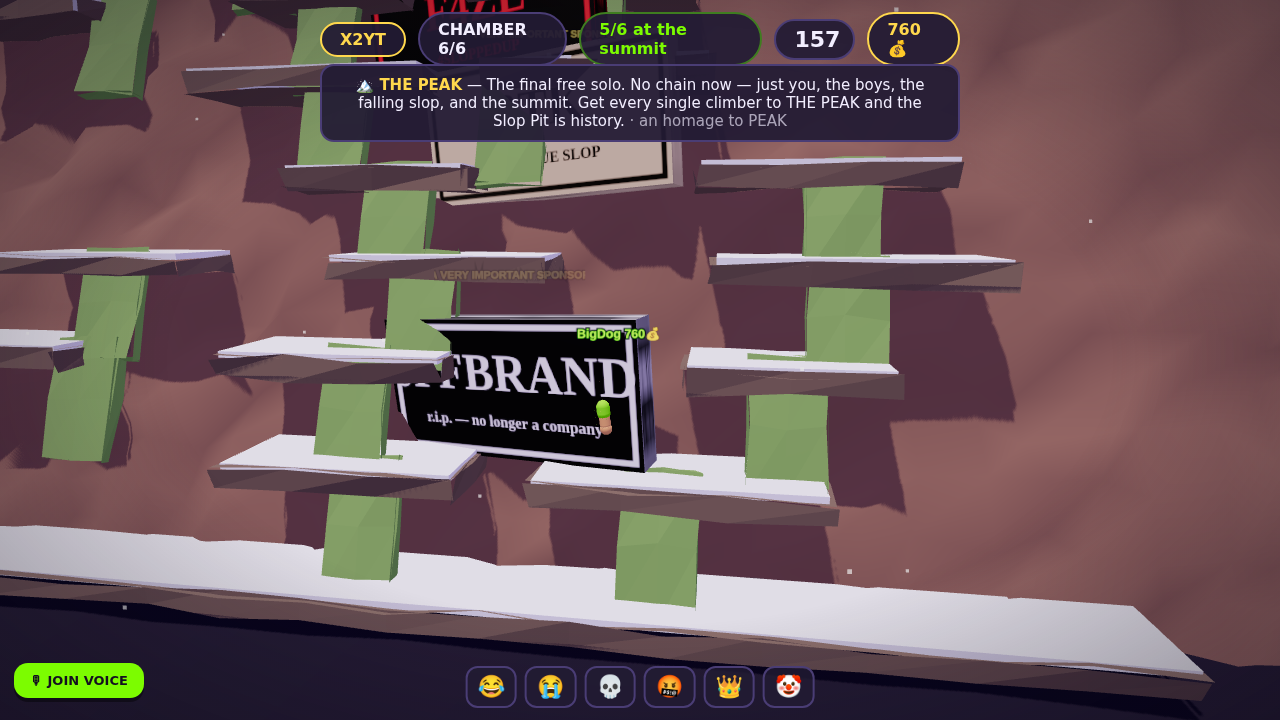
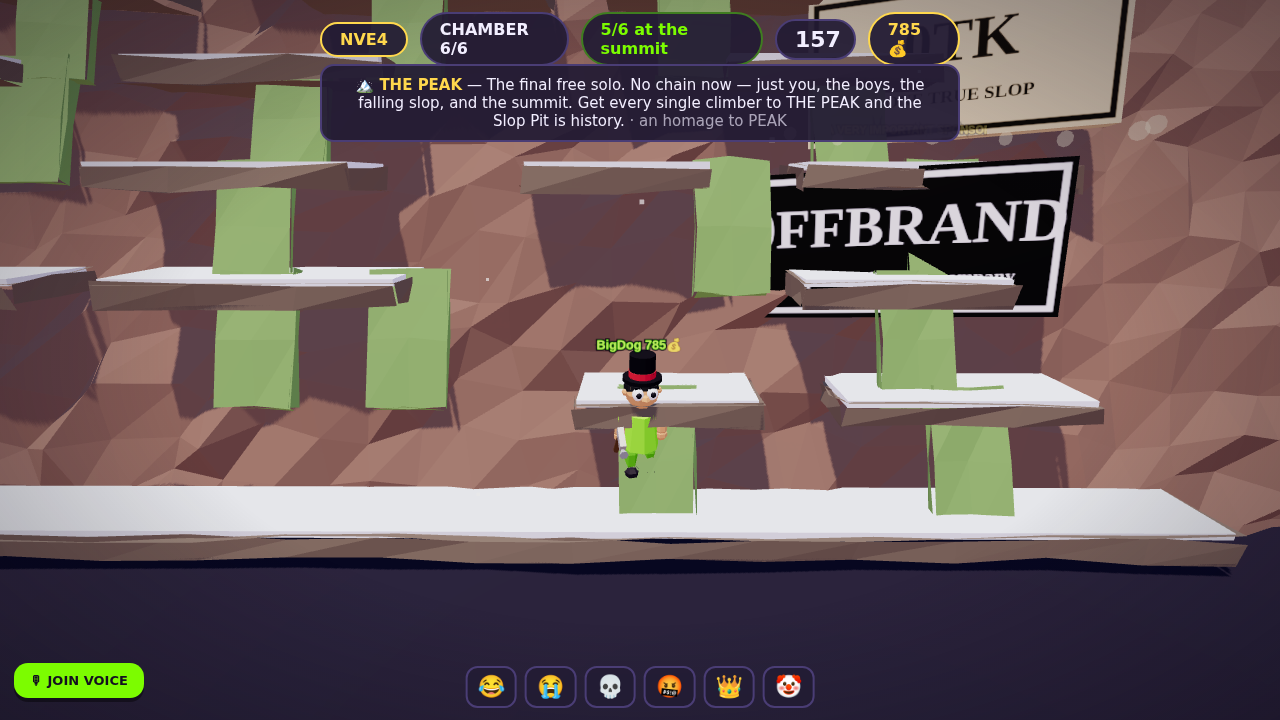
Full graphics overhaul: faceted toy-diorama style
The whole game now shares one look pulled from the concept-art refs:
clean flat-shaded facets on everything (global facetify pass over
every arena material, eyes excepted), low-segment gem-cut character
geometry, strong warm sun + sky-blue fill so facets read, saturated
palette. RV chamber became Chaos Canyon (blue sky, stacked terracotta
mesas, saguaros, parody billboard); hub gate is a big studded faceted
arch; richer felt; faceted palms and Peak cliff.

Claude-Session: https://claude.ai/code/session_014a4Rg1hvhLxLbg1EbcNxR6

diff --git a/client/js/render.js b/client/js/render.js
@@ -56,19 +56,20 @@ function liftFor(id) {
 // ---- shared geometry / materials --------------------------------------------
 
 const GEO = {
-  // chunky little HUMANS (R.V. There Yet clay-person energy): big head with a
-  // real face, shirt torso, sleeves ending in hands, pants ending in shoes
-  torso: new THREE.CapsuleGeometry(17, 22, 8, 18),
-  sleeve: new THREE.CapsuleGeometry(6.8, 6, 6, 12),
-  forearm: new THREE.CapsuleGeometry(5.6, 9, 6, 12),
-  hand: new THREE.SphereGeometry(6.2, 12, 10),
-  thigh: new THREE.CapsuleGeometry(7.5, 12, 6, 12),
-  shoe: new THREE.SphereGeometry(8.5, 12, 10).scale(1.35, 0.75, 1.05),
-  head: new THREE.SphereGeometry(16.5, 26, 20),
-  nose: new THREE.SphereGeometry(4.6, 12, 10).scale(1.25, 1, 1),
-  ear: new THREE.SphereGeometry(3.6, 10, 8),
+  // chunky little HUMANS in faceted toy-diorama low poly: big gem-cut head
+  // with a real face, tapered barrel torso, sleeves ending in mitts, boots.
+  // Segment counts are LOW on purpose — the facets are the art style.
+  torso: new THREE.CylinderGeometry(13, 17.5, 36, 8),
+  sleeve: new THREE.CapsuleGeometry(6.8, 6, 2, 7),
+  forearm: new THREE.CapsuleGeometry(5.6, 9, 2, 7),
+  hand: new THREE.SphereGeometry(6.2, 7, 5),
+  thigh: new THREE.CapsuleGeometry(7.5, 12, 2, 7),
+  shoe: new THREE.SphereGeometry(8.5, 7, 5).scale(1.35, 0.75, 1.05),
+  head: new THREE.SphereGeometry(16.5, 9, 6),
+  nose: new THREE.SphereGeometry(4.6, 6, 4).scale(1.25, 1, 1),
+  ear: new THREE.SphereGeometry(3.6, 6, 4),
   brow: new THREE.BoxGeometry(2.4, 2.2, 6.5),
-  hair: new THREE.SphereGeometry(17.3, 22, 12, 0, Math.PI * 2, 0, Math.PI * 0.52),
+  hair: new THREE.SphereGeometry(17.3, 9, 5, 0, Math.PI * 2, 0, Math.PI * 0.52),
   // the 2004 de-make set
   torsoB: new THREE.BoxGeometry(26, 46, 36),
   legB: new THREE.BoxGeometry(12, 27, 14),
@@ -85,8 +86,8 @@ const GEO = {
   card: new THREE.PlaneGeometry(66, 92),
 };
 const MAT = {
-  eyeWhite: new THREE.MeshStandardMaterial({ color: 0xffffff, roughness: 0.3 }),
-  pupil: new THREE.MeshStandardMaterial({ color: 0x1a1426, roughness: 0.4 }),
+  eyeWhite: new THREE.MeshStandardMaterial({ color: 0xffffff, roughness: 0.3, userData: { smooth: true } }),
+  pupil: new THREE.MeshStandardMaterial({ color: 0x1a1426, roughness: 0.4, userData: { smooth: true } }),
   link: new THREE.MeshStandardMaterial({ color: 0x4a4260, roughness: 0.35, metalness: 0.7 }),
   gremlin: new THREE.MeshStandardMaterial({ color: 0x2c2140, roughness: 0.6, flatShading: true }),
   gremlinEye: new THREE.MeshBasicMaterial({ color: 0xff3030 }),
@@ -105,7 +106,7 @@ function particleMat(color) {
 // crew of little dudes instead of a bag of gumballs.
 const SKINS = ['#f2c9a0', '#e8ab72', '#c98e55', '#9a6b42', '#f6d7b8', '#7a5236'];
 const HAIRS = ['#3a2a1e', '#191922', '#6b4a2e', '#8a8a92', '#b8862e', '#2e1c14'];
-const SHOE_MAT = new THREE.MeshStandardMaterial({ color: 0x2a2233, roughness: 0.6 });
+const SHOE_MAT = new THREE.MeshStandardMaterial({ color: 0x2a2233, roughness: 0.6, flatShading: true });
 
 const charMatCache = new Map();
 function charMats(color, skinIndex = 0, blocky = false) {
@@ -120,11 +121,12 @@ function charMats(color, skinIndex = 0, blocky = false) {
         limb: new THREE.MeshStandardMaterial({ color: base.clone().lerp(new THREE.Color('#000000'), 0.25), roughness: 0.55, ...opts }),
       });
     } else {
+      // flat shading everywhere — clean toy-diorama facets
       charMatCache.set(key, {
-        shirt: new THREE.MeshStandardMaterial({ color: base, roughness: 0.6 }),
-        pants: new THREE.MeshStandardMaterial({ color: base.clone().lerp(new THREE.Color('#14101f'), 0.45), roughness: 0.65 }),
-        skin: new THREE.MeshStandardMaterial({ color: SKINS[skinIndex % SKINS.length], roughness: 0.55 }),
-        hair: new THREE.MeshStandardMaterial({ color: HAIRS[skinIndex % HAIRS.length], roughness: 0.75 }),
+        shirt: new THREE.MeshStandardMaterial({ color: base, roughness: 0.6, flatShading: true }),
+        pants: new THREE.MeshStandardMaterial({ color: base.clone().lerp(new THREE.Color('#14101f'), 0.45), roughness: 0.65, flatShading: true }),
+        skin: new THREE.MeshStandardMaterial({ color: SKINS[skinIndex % SKINS.length], roughness: 0.55, flatShading: true }),
+        hair: new THREE.MeshStandardMaterial({ color: HAIRS[skinIndex % HAIRS.length], roughness: 0.75, flatShading: true }),
       });
     }
   }
@@ -427,10 +429,11 @@ export function initRender(cv) {
     if (!yawLocked && document.pointerLockElement === canvas) camYaw += e.movementX * 0.0026;
   });
 
-  // bright + even (Gamble With Friends is basically lit like a toy commercial)
-  scene.add(new THREE.AmbientLight(0xb0a4d8, 1.6));
-  scene.add(new THREE.HemisphereLight(0xa898d8, 0x4a3a58, 1.1));
-  const sun = new THREE.DirectionalLight(0xfff2e0, 1.7);
+  // sunny illustrated look: strong warm sun + sky-blue fill. The facets are
+  // the art style, and facets only read when light has a direction.
+  scene.add(new THREE.AmbientLight(0xcabdf0, 1.0));
+  scene.add(new THREE.HemisphereLight(0x9ec8ff, 0xd8a878, 1.25));
+  const sun = new THREE.DirectionalLight(0xfff0d8, 2.3);
   sun.position.set(500, 1500, 900);
   sun.castShadow = true;
   sun.shadow.mapSize.set(2048, 2048);
@@ -1032,9 +1035,83 @@ function buildDenRoom(group) {
   group.add(moodB);
 }
 
+// ---- Chaos Canyon set dressing: faceted desert diorama pieces ---------------
+
+// A stacked terracotta butte: tapered 8-sided slabs, lighter toward the top.
+const MESA_TONES = [0xb3502a, 0xc4652f, 0xd4784a, 0xe08a56];
+function mesa(group, x, z, s = 1) {
+  const butte = new THREE.Group();
+  let y = 0;
+  const tiers = 3 + Math.floor(Math.random() * 2);
+  for (let t = 0; t < tiers; t++) {
+    const rTop = (250 - t * 55) * (0.82 + Math.random() * 0.3);
+    const h = 150 - t * 22;
+    const slab = new THREE.Mesh(
+      new THREE.CylinderGeometry(rTop, rTop * 1.22, h, 8),
+      new THREE.MeshStandardMaterial({ color: MESA_TONES[Math.min(t, MESA_TONES.length - 1)], roughness: 1, flatShading: true }),
+    );
+    slab.rotation.y = Math.random() * Math.PI;
+    slab.position.y = y + h / 2;
+    slab.castShadow = true;
+    butte.add(slab);
+    y += h * 0.92;
+  }
+  butte.position.set(x, 0, z);
+  butte.scale.setScalar(s);
+  group.add(butte);
+}
+
+// A saguaro: faceted trunk + two elbowed arms.
+const CACTUS_MAT = new THREE.MeshStandardMaterial({ color: 0x4fae4a, roughness: 0.85, flatShading: true });
+function cactus(group, x, z, s = 1) {
+  const cac = new THREE.Group();
+  const trunk = new THREE.Mesh(new THREE.CylinderGeometry(13, 16, 130, 7), CACTUS_MAT);
+  trunk.position.y = 65;
+  trunk.castShadow = true;
+  cac.add(trunk);
+  const cap = new THREE.Mesh(new THREE.SphereGeometry(13, 7, 4), CACTUS_MAT);
+  cap.position.y = 130;
+  cac.add(cap);
+  for (const [side, hy] of [[-1, 60], [1, 82]]) {
+    const out = new THREE.Mesh(new THREE.CylinderGeometry(8, 9, 34, 6), CACTUS_MAT);
+    out.rotation.x = side * Math.PI / 2;
+    out.position.set(0, hy, side * 27);
+    cac.add(out);
+    const up = new THREE.Mesh(new THREE.CylinderGeometry(7.5, 8.5, 46, 6), CACTUS_MAT);
+    up.position.set(0, hy + 20, side * 42);
+    cac.add(up);
+    const knob = new THREE.Mesh(new THREE.SphereGeometry(8, 6, 4), CACTUS_MAT);
+    knob.position.set(0, hy + 43, side * 42);
+    cac.add(knob);
+  }
+  cac.position.set(x, 0, z);
+  cac.scale.setScalar(s);
+  group.add(cac);
+}
+
+// A weathered roadside billboard on two posts.
+function billboard(group, x, z, text, color) {
+  const posts = new THREE.MeshStandardMaterial({ color: 0x6b5a4a, roughness: 1, flatShading: true });
+  for (const dx of [-170, 170]) {
+    const post = new THREE.Mesh(new THREE.CylinderGeometry(9, 11, 260, 7), posts);
+    post.position.set(x + dx, 130, z);
+    group.add(post);
+  }
+  const board = new THREE.Mesh(
+    new THREE.BoxGeometry(480, 180, 14),
+    new THREE.MeshStandardMaterial({ color: 0xf2e2c4, roughness: 0.9, flatShading: true }),
+  );
+  board.position.set(x, 330, z);
+  board.castShadow = true;
+  group.add(board);
+  const sign = makeTextSprite(text, { px: 58, color, w: 1024 });
+  sign.position.set(x, 330, z + 20);
+  group.add(sign);
+}
+
 // A chunky cartoon palm: leaning trunk segments + a mop of droopy leaves.
-const PALM_TRUNK = new THREE.MeshStandardMaterial({ color: 0xc79a5e, roughness: 0.9 });
-const PALM_LEAF = new THREE.MeshStandardMaterial({ color: 0x3fae52, roughness: 0.8, side: THREE.DoubleSide });
+const PALM_TRUNK = new THREE.MeshStandardMaterial({ color: 0xc79a5e, roughness: 0.9, flatShading: true });
+const PALM_LEAF = new THREE.MeshStandardMaterial({ color: 0x3fae52, roughness: 0.8, side: THREE.DoubleSide, flatShading: true });
 const PALM_LEAF_GEO = new THREE.ConeGeometry(13, 110, 6).scale(1, 1, 0.28);
 function palmTree(group, x, z, s = 1) {
   const palm = new THREE.Group();
@@ -1073,8 +1150,8 @@ function palmTree(group, x, z, s = 1) {
 function buildBjTable(group) {
   const refs = {};
   const felt = new THREE.Mesh(
-    new THREE.CylinderGeometry(130, 138, 46, 32),
-    new THREE.MeshStandardMaterial({ color: 0x1c6b3a, roughness: 0.6 }),
+    new THREE.CylinderGeometry(130, 138, 46, 12),
+    new THREE.MeshStandardMaterial({ color: 0x148a4a, roughness: 0.6 }),
   );
   felt.position.set(C.HUB.TABLE.x, 23, C.HUB.TABLE.y);
   felt.castShadow = true;
@@ -1182,6 +1259,20 @@ function updateBjTable(dt, refs, bj) {
   }
 }
 
+// The whole world is faceted toy-diorama low poly: every environment material
+// gets flat shading (eyes and anything marked userData.smooth stay round).
+function facetify(root) {
+  root.traverse(o => {
+    if (!o.isMesh) return;
+    for (const m of Array.isArray(o.material) ? o.material : [o.material]) {
+      if (m.isMeshStandardMaterial && !m.flatShading && !m.userData.smooth) {
+        m.flatShading = true;
+        m.needsUpdate = true;
+      }
+    }
+  });
+}
+
 function buildArena(kind) {
   if (arena) clearGroup(arena.group);
   const group = new THREE.Group();
@@ -1193,25 +1284,26 @@ function buildArena(kind) {
   if (kind === 'hub') {
     buildDenRoom(group);
     addDrifters(group, { count: 60, color: 0xffd890, size: 4, opacity: 0.28, box: [100, 1500, 60, 440, 60, 840], vy: 7 });
-    // THE GATE (north)
-    const gmat = new THREE.MeshStandardMaterial({ color: 0x4a3d75, roughness: 0.7 });
-    for (const px of [C.HUB.GATE.x - 330, C.HUB.GATE.x + 330]) {
-      const p = new THREE.Mesh(new THREE.BoxGeometry(90, 360, 90), gmat);
-      p.position.set(px, 180, 40);
-      p.castShadow = true;
-      group.add(p);
+    // THE GATE (north): a big dumb faceted arch, like every good cartoon canyon
+    const archMat = new THREE.MeshStandardMaterial({ color: 0x52c25e, roughness: 0.8, flatShading: true });
+    const arch = new THREE.Mesh(new THREE.TorusGeometry(330, 62, 6, 9, Math.PI), archMat);
+    arch.position.set(C.HUB.GATE.x, 20, 40);
+    arch.castShadow = true;
+    group.add(arch);
+    for (let i = 1; i < 8; i++) { // studs along the arch, because the arch demanded them
+      const a = (i / 8) * Math.PI;
+      const stud = new THREE.Mesh(new THREE.SphereGeometry(16, 6, 4), new THREE.MeshStandardMaterial({ color: 0x3a9a46, roughness: 0.8, flatShading: true }));
+      stud.position.set(C.HUB.GATE.x + Math.cos(a) * 330, 20 + Math.sin(a) * 330, 105);
+      group.add(stud);
     }
-    const beam = new THREE.Mesh(new THREE.BoxGeometry(760, 80, 100), gmat);
-    beam.position.set(C.HUB.GATE.x, 400, 40);
-    group.add(beam);
-    const opening = new THREE.Mesh(new THREE.BoxGeometry(560, 300, 18), new THREE.MeshBasicMaterial({ color: 0x05030c }));
+    const opening = new THREE.Mesh(new THREE.BoxGeometry(480, 300, 18), new THREE.MeshBasicMaterial({ color: 0x05030c }));
     opening.position.set(C.HUB.GATE.x, 150, 30);
     group.add(opening);
     const door = new THREE.Mesh(
-      new THREE.BoxGeometry(560, 260, 46),
+      new THREE.BoxGeometry(480, 250, 46),
       new THREE.MeshStandardMaterial({ color: 0x6b5a9e, roughness: 0.5, emissive: 0x2a1a4a, emissiveIntensity: 0.6 }),
     );
-    door.position.set(C.HUB.GATE.x, 130, 40);
+    door.position.set(C.HUB.GATE.x, 125, 40);
     door.castShadow = true;
     group.add(door);
     arena.door = door;
@@ -1223,7 +1315,7 @@ function buildArena(kind) {
     group.add(zone);
     arena.gateZone = zone;
     arena.gateSign = makeTextSprite(' ', { px: 46, color: '#00E5FF', w: 1024 });
-    arena.gateSign.position.set(C.HUB.GATE.x, 350, 60);
+    arena.gateSign.position.set(C.HUB.GATE.x, 440, 60);
     group.add(arena.gateSign);
     const marquee = makeTextSprite('✨ F R I E N D S L O P ✨', { px: 54, color: '#FF6EC7', w: 1024 });
     marquee.position.set(C.HUB.GATE.x, 500, 40);
@@ -1295,31 +1387,32 @@ function buildArena(kind) {
     buildSlopchange(group, -405);
     arena.digLayers = []; // built on demand from extras
   } else if (kind === 'rv') {
-    // warm terracotta canyon at golden hour (R.V. There Yet's postcard look)
-    skyDome(group, '#8a4a8e', '#ff8a52', '#ffcf8a');
-    setMood(0xe08a54, 2400, 5600);
-    addClouds(group, 5, 640, 0xffd9b0, 0.5);
+    // CHAOS CANYON: bright blue sky, stacked terracotta mesas, cacti —
+    // faceted toy-diorama low poly
+    skyDome(group, '#3f96e8', '#a8d8f0', '#f2d4a0');
+    setMood(0xd8a870, 2600, 6200);
+    addClouds(group, 6, 700, 0xffffff, 0.75);
     const canyon = new THREE.Mesh(
       roughen(new THREE.CylinderGeometry(2500, 2400, 1500, 26, 6, true), 70),
-      new THREE.MeshStandardMaterial({ color: 0xc4652f, roughness: 1, side: THREE.BackSide }),
+      new THREE.MeshStandardMaterial({ color: 0xc4652f, roughness: 1, flatShading: true, side: THREE.BackSide }),
     );
     canyon.position.set(CX, 500, CZ);
     group.add(canyon);
-    // stacked hoodoo boulders around the rim, smooth clay-like
-    const hoodooMat = new THREE.MeshStandardMaterial({ color: 0xd4784a, roughness: 0.95 });
-    for (let i = 0; i < 7; i++) {
-      const a = (i / 7) * Math.PI * 2 + 0.4;
-      let hy = 0;
-      for (let s = 0; s < 3; s++) {
-        const r = 130 - s * 34 + Math.random() * 20;
-        const rock = new THREE.Mesh(new THREE.SphereGeometry(r, 14, 10).scale(1, 0.72, 1), hoodooMat);
-        rock.position.set(CX + Math.cos(a) * 1750, hy + r * 0.5, CZ + Math.sin(a) * 1350);
-        hy += r * 1.05;
-        group.add(rock);
-      }
+    // stacked mesa buttes around the rim — chamfered slabs, lighter every tier
+    for (let i = 0; i < 8; i++) {
+      const a = (i / 8) * Math.PI * 2 + 0.35;
+      mesa(group, CX + Math.cos(a) * 1720, CZ + Math.sin(a) * 1320, 0.8 + Math.random() * 0.7);
     }
-    addDrifters(group, { count: 70, color: 0xffb070, size: 5, opacity: 0.3, box: [0, 1600, 10, 300, 0, 900], vy: 6 });
-    floorBox(group, 1760, 1020, 0xb57a44, noiseTexture('#b57a44', '#9a6536'));
+    // cacti dotted around the pit floor edges and the rim
+    for (let i = 0; i < 12; i++) {
+      const a = (i / 12) * Math.PI * 2 + 1.1;
+      cactus(group, CX + Math.cos(a) * (1150 + Math.random() * 350), CZ + Math.sin(a) * (800 + Math.random() * 300), 0.8 + Math.random() * 0.8);
+    }
+    cactus(group, 120, 90, 1.1); cactus(group, C.ARENA_W - 90, C.ARENA_H - 70, 0.9);
+    // the big dumb billboard
+    billboard(group, CX - 350, -640, 'R.V. SLOP YET? →', '#c23a2e');
+    addDrifters(group, { count: 70, color: 0xffcf90, size: 5, opacity: 0.3, box: [0, 1600, 10, 300, 0, 900], vy: 6 });
+    floorBox(group, 1760, 1020, 0xdca55e, noiseTexture('#dca55e', '#c28f4a'));
     arena.mudDiscs = [];
     // exit garage on the east wall
     const garage = new THREE.Mesh(
@@ -1395,7 +1488,7 @@ function buildArena(kind) {
       skyDome(group, '#3a4a94', '#ff9a6a', '#ffd0a0');
       setMood(0xe09a72, 2600, 5600);
       addClouds(group, 7, 620, 0xffd8c0, 0.55);
-      cliffMat = new THREE.MeshStandardMaterial({ color: 0x8a6a5c, roughness: 1 });
+      cliffMat = new THREE.MeshStandardMaterial({ color: 0x8a6a5c, roughness: 1, flatShading: true });
       // distant range
       for (let i = 0; i < 4; i++) {
         const mtn = new THREE.Mesh(
@@ -1442,6 +1535,7 @@ function buildArena(kind) {
     flag.position.copy(fp);
     group.add(flag);
   }
+  facetify(group);
   return arena;
 }
 
